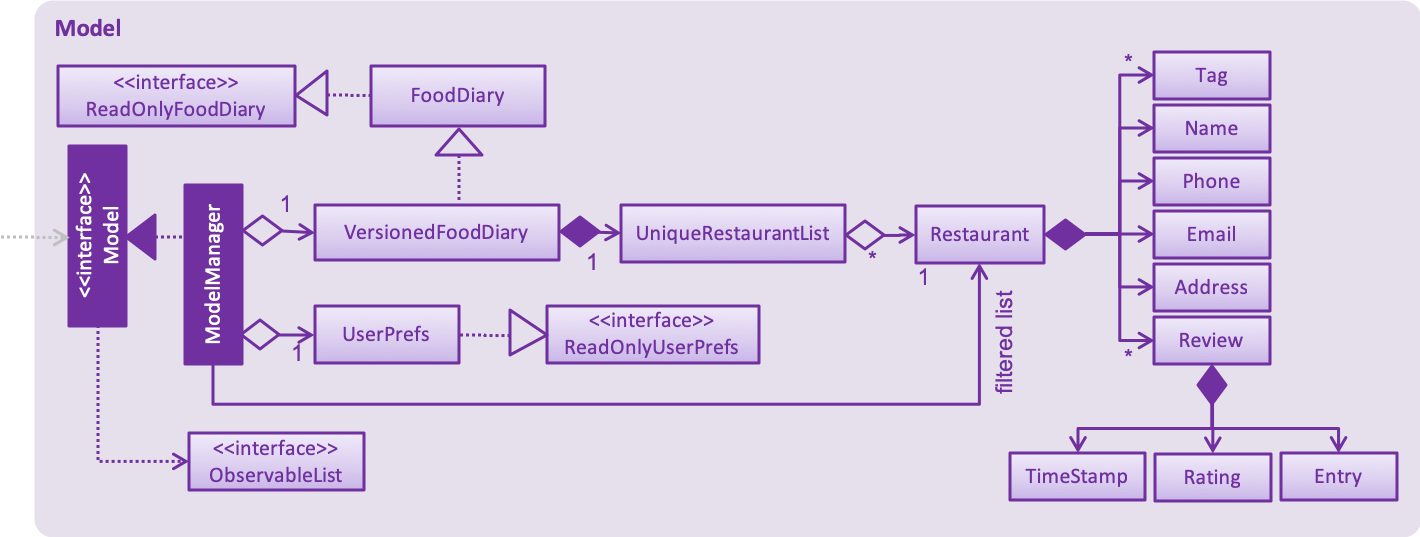
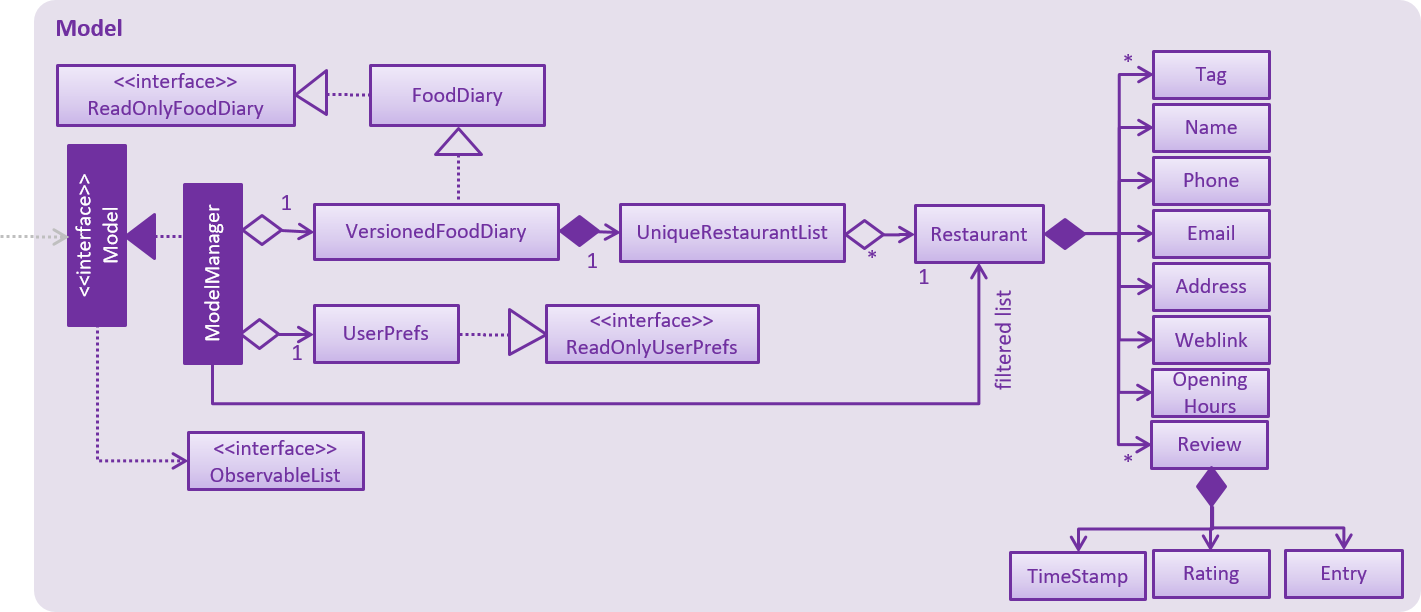
Rebuild pages at 00949ba50557b893d7e072f0d15a958df552ecd2

Changed region(s): [[0.0, 0.0298, 0.9915, 0.9832], [0.9915, 0.9832, 1.0, 1.0]]

diff --git a/DeveloperGuide.html b/DeveloperGuide.html
@@ -33,9 +33,10 @@
 <li><a href="#undo-redo-feature">3.2. Undo/Redo feature</a></li>
 <li><a href="#restaurant-categorisation">3.3. Restaurant Categorisation</a></li>
 <li><a href="#adding-a-review-to-a-selected-restaurant">3.4. Adding a Review to a selected Restaurant</a></li>
-<li><a href="#proposed-data-encryption">3.5. [Proposed] Data Encryption</a></li>
-<li><a href="#logging">3.6. Logging</a></li>
-<li><a href="#Implementation-Configuration">3.7. Configuration</a></li>
+<li><a href="#visit-webpage-feature">3.5. Visit Webpage Feature</a></li>
+<li><a href="#proposed-data-encryption">3.6. [Proposed] Data Encryption</a></li>
+<li><a href="#logging">3.7. Logging</a></li>
+<li><a href="#Implementation-Configuration">3.8. Configuration</a></li>
 </ul>
 </li>
 <li><a href="#documentation">4. Documentation</a>
@@ -938,20 +939,58 @@ Given the stable implementation of the current system of parsing commands, any n
 </div>
 </div>
 <div class="sect2">
-<h3 id="proposed-data-encryption"><a class="link" href="#proposed-data-encryption">3.5. [Proposed] Data Encryption</a></h3>
+<h3 id="visit-webpage-feature"><a class="link" href="#visit-webpage-feature">3.5. Visit Webpage Feature</a></h3>
+<div class="paragraph">
+<p>Website can be displayed on the <code>BrowserPanel</code> with <code>visitWeb</code> command.</p>
+</div>
+<div class="sect3">
+<h4 id="current-implementation-4"><a class="link" href="#current-implementation-4">3.5.1. current implementation</a></h4>
+<div class="ulist">
+<ul>
+<li>
+<p>Restaurants has a field <code>Weblink</code> which contains the URL of the restaurant website.</p>
+</li>
+<li>
+<p>Weblink have to be valid https or http link before browser can display the website.</p>
+</li>
+<li>
+<p>Upon <code>visitWeb</code> command, <code>Parser</code> in the <code>Logic</code> component will call <code>VisitWebCommandParser</code> to parse index into
+<code>VisitWebCommand</code>.</p>
+</li>
+<li>
+<p><code>Model</code> will then set Restaurant of the input index as selected Restaurant.</p>
+</li>
+<li>
+<p><code>BrowserPanel</code> of <code>UI</code> component will listen to this change in selected Restaurant and thus, display website of
+Restaurant on the <code>BrowserPanel</code>.</p>
+</li>
+</ul>
+</div>
+<div class="paragraph">
+<p>The following sequence diagram shows how the visitWeb operation works:</p>
+</div>
+<div class="imageblock">
+<div class="content">
+<img src="images/VisitWebSequenceDiagram.png" alt="VisitWebSequenceDiagram" width="800">
+</div>
+</div>
+</div>
+</div>
+<div class="sect2">
+<h3 id="proposed-data-encryption"><a class="link" href="#proposed-data-encryption">3.6. [Proposed] Data Encryption</a></h3>
 <div class="paragraph">
 <p><em>{Explain here how the data encryption feature will be implemented}</em></p>
 </div>
 </div>
 <div class="sect2">
-<h3 id="logging"><a class="link" href="#logging">3.6. Logging</a></h3>
+<h3 id="logging"><a class="link" href="#logging">3.7. Logging</a></h3>
 <div class="paragraph">
 <p>We are using <code>java.util.logging</code> package for logging. The <code>LogsCenter</code> class is used to manage the logging levels and logging destinations.</p>
 </div>
 <div class="ulist">
 <ul>
 <li>
-<p>The logging level can be controlled using the <code>logLevel</code> setting in the configuration file (See <a href="#Implementation-Configuration">Section 3.7, &#8220;Configuration&#8221;</a>)</p>
+<p>The logging level can be controlled using the <code>logLevel</code> setting in the configuration file (See <a href="#Implementation-Configuration">Section 3.8, &#8220;Configuration&#8221;</a>)</p>
 </li>
 <li>
 <p>The <code>Logger</code> for a class can be obtained using <code>LogsCenter.getLogger(Class)</code> which will log messages according to the specified logging level</p>
@@ -982,7 +1021,7 @@ Given the stable implementation of the current system of parsing commands, any n
 </div>
 </div>
 <div class="sect2">
-<h3 id="Implementation-Configuration"><a class="link" href="#Implementation-Configuration">3.7. Configuration</a></h3>
+<h3 id="Implementation-Configuration"><a class="link" href="#Implementation-Configuration">3.8. Configuration</a></h3>
 <div class="paragraph">
 <p>Certain properties of the application can be controlled (e.g user prefs file location, logging level) through the configuration file (default: <code>config.json</code>).</p>
 </div>
@@ -2426,4 +2465,4 @@ Expected: Similar to previous.</p>
 </div>
 </div>
 </div>
-</div></div><div id="footer"><div class="container"><div id="footer-text">Last updated 2019-03-19 14:57:08 UTC</div></div></div></body></html>
+</div></div><div id="footer"><div class="container"><div id="footer-text">Last updated 2019-03-19 15:48:12 UTC</div></div></div></body></html>

diff --git a/HelpWindow.html b/HelpWindow.html
@@ -27,8 +27,9 @@
 <li><a href="#filter-restaurants-based-on-category-code-filter-code">3.12. Filter restaurants based on category : <code>filter</code></a></li>
 <li><a href="#personalising-your-food-diary-with-your-name-code-name-code">3.13. Personalising your food diary with your name: <code>name</code></a></li>
 <li><a href="#view-your-profile-and-usage-statistics-code-view-code">3.14. View your profile and usage statistics : <code>view</code></a></li>
-<li><a href="#exiting-the-program-code-exit-code">3.15. Exiting the program : <code>exit</code></a></li>
-<li><a href="#saving-the-data">3.16. Saving the data</a></li>
+<li><a href="#display-website-of-selected-restaurant-code-visitweb-code">3.15. Display website of selected restaurant : <code>visitWeb</code></a></li>
+<li><a href="#exiting-the-program-code-exit-code">3.16. Exiting the program : <code>exit</code></a></li>
+<li><a href="#saving-the-data">3.17. Saving the data</a></li>
 </ul>
 </li>
 <li><a href="#faq">4. FAQ</a></li>
@@ -517,14 +518,47 @@ Format: `view'</p>
 </div>
 </div>
 <div class="sect2">
-<h3 id="exiting-the-program-code-exit-code"><a class="link" href="#exiting-the-program-code-exit-code">3.15. Exiting the program : <code>exit</code></a></h3>
+<h3 id="display-website-of-selected-restaurant-code-visitweb-code"><a class="link" href="#display-website-of-selected-restaurant-code-visitweb-code">3.15. Display website of selected restaurant : <code>visitWeb</code></a></h3>
+<div class="paragraph">
+<p>Display the website of a restaurant identified by the index number used in the listRestaurants based on its weblink.<br>
+Format: <code>visitWeb INDEX</code></p>
+</div>
+<div class="sidebarblock">
+<div class="content">
+<div class="ulist">
+<ul>
+<li>
+<p>The index refers to the index number shown in the displayed restaurants list.</p>
+</li>
+<li>
+<p>The index <strong>must be a positive integer</strong> <code>1, 2, 3, &#8230;&#8203;</code></p>
+</li>
+</ul>
+</div>
+</div>
+</div>
+<div class="paragraph">
+<p>Examples:</p>
+</div>
+<div class="ulist">
+<ul>
+<li>
+<p><code>listRestaurants</code><br>
+<code>visitWeb 1</code><br>
+Displays webpage of Restaurant at index 1 of listRestaurants.</p>
+</li>
+</ul>
+</div>
+</div>
+<div class="sect2">
+<h3 id="exiting-the-program-code-exit-code"><a class="link" href="#exiting-the-program-code-exit-code">3.16. Exiting the program : <code>exit</code></a></h3>
 <div class="paragraph">
 <p>Exits the program.<br>
 Format: <code>exit</code></p>
 </div>
 </div>
 <div class="sect2">
-<h3 id="saving-the-data"><a class="link" href="#saving-the-data">3.16. Saving the data</a></h3>
+<h3 id="saving-the-data"><a class="link" href="#saving-the-data">3.17. Saving the data</a></h3>
 <div class="paragraph">
 <p>Food diary data are saved in the hard disk automatically after any command that changes the data.<br>
 There is no need to save manually.</p>
@@ -567,4 +601,4 @@ e.g. <code>editReview 2 r/3 m/this is good</code></p>
 </ul>
 </div>
 </div>
-</div></div><div id="footer"><div class="container"><div id="footer-text">Last updated 2019-03-19 14:57:08 UTC</div></div></div></body></html>
+</div></div><div id="footer"><div class="container"><div id="footer-text">Last updated 2019-03-19 15:48:12 UTC</div></div></div></body></html>

diff --git a/UserGuide.html b/UserGuide.html
@@ -27,8 +27,9 @@
 <li><a href="#filter-restaurants-based-on-category-code-filter-code">3.12. Filter restaurants based on category : <code>filter</code></a></li>
 <li><a href="#personalising-your-food-diary-with-your-name-code-name-code">3.13. Personalising your food diary with your name: <code>name</code></a></li>
 <li><a href="#view-your-profile-and-usage-statistics-code-view-code">3.14. View your profile and usage statistics : <code>view</code></a></li>
-<li><a href="#exiting-the-program-code-exit-code">3.15. Exiting the program : <code>exit</code></a></li>
-<li><a href="#saving-the-data">3.16. Saving the data</a></li>
+<li><a href="#display-website-of-selected-restaurant-code-visitweb-code">3.15. Display website of selected restaurant : <code>visitWeb</code></a></li>
+<li><a href="#exiting-the-program-code-exit-code">3.16. Exiting the program : <code>exit</code></a></li>
+<li><a href="#saving-the-data">3.17. Saving the data</a></li>
 </ul>
 </li>
 <li><a href="#faq">4. FAQ</a></li>
@@ -517,14 +518,47 @@ Format: `view'</p>
 </div>
 </div>
 <div class="sect2">
-<h3 id="exiting-the-program-code-exit-code"><a class="link" href="#exiting-the-program-code-exit-code">3.15. Exiting the program : <code>exit</code></a></h3>
+<h3 id="display-website-of-selected-restaurant-code-visitweb-code"><a class="link" href="#display-website-of-selected-restaurant-code-visitweb-code">3.15. Display website of selected restaurant : <code>visitWeb</code></a></h3>
+<div class="paragraph">
+<p>Display the website of a restaurant identified by the index number used in the listRestaurants based on its weblink.<br>
+Format: <code>visitWeb INDEX</code></p>
+</div>
+<div class="sidebarblock">
+<div class="content">
+<div class="ulist">
+<ul>
+<li>
+<p>The index refers to the index number shown in the displayed restaurants list.</p>
+</li>
+<li>
+<p>The index <strong>must be a positive integer</strong> <code>1, 2, 3, &#8230;&#8203;</code></p>
+</li>
+</ul>
+</div>
+</div>
+</div>
+<div class="paragraph">
+<p>Examples:</p>
+</div>
+<div class="ulist">
+<ul>
+<li>
+<p><code>listRestaurants</code><br>
+<code>visitWeb 1</code><br>
+Displays webpage of Restaurant at index 1 of listRestaurants.</p>
+</li>
+</ul>
+</div>
+</div>
+<div class="sect2">
+<h3 id="exiting-the-program-code-exit-code"><a class="link" href="#exiting-the-program-code-exit-code">3.16. Exiting the program : <code>exit</code></a></h3>
 <div class="paragraph">
 <p>Exits the program.<br>
 Format: <code>exit</code></p>
 </div>
 </div>
 <div class="sect2">
-<h3 id="saving-the-data"><a class="link" href="#saving-the-data">3.16. Saving the data</a></h3>
+<h3 id="saving-the-data"><a class="link" href="#saving-the-data">3.17. Saving the data</a></h3>
 <div class="paragraph">
 <p>Food diary data are saved in the hard disk automatically after any command that changes the data.<br>
 There is no need to save manually.</p>
@@ -567,4 +601,4 @@ e.g. <code>editReview 2 r/3 m/this is good</code></p>
 </ul>
 </div>
 </div>
-</div></div><div id="footer"><div class="container"><div id="footer-text">Last updated 2019-03-19 14:57:08 UTC</div></div></div></body></html>
+</div></div><div id="footer"><div class="container"><div id="footer-text">Last updated 2019-03-19 15:48:12 UTC</div></div></div></body></html>

diff --git a/team/johndoe.html b/team/johndoe.html
@@ -369,4 +369,4 @@ If the <code>currentStatePointer</code> is at index <code>addressBookStateList.s
 <p><em>{Optionally, you may include other projects in your portfolio.}</em></p>
 </div>
 </div>
-</div></div><div id="footer"><div class="container"><div id="footer-text">Last updated 2019-03-19 14:57:08 UTC</div></div></div></body></html>
+</div></div><div id="footer"><div class="container"><div id="footer-text">Last updated 2019-03-19 15:48:12 UTC</div></div></div></body></html>

diff --git a/ContactUs.html b/ContactUs.html
@@ -12,4 +12,4 @@
 <p><strong>Email us</strong> : You can also reach us at <code>weikanglee@u.nus.edu</code></p>
 </li>
 </ul>
-</div></div><div id="footer"><div class="container"><div id="footer-text">Last updated 2019-03-19 14:57:08 UTC</div></div></div></body></html>
+</div></div><div id="footer"><div class="container"><div id="footer-text">Last updated 2019-03-19 15:48:12 UTC</div></div></div></body></html>

diff --git a/LearningOutcomes.html b/LearningOutcomes.html
@@ -549,4 +549,4 @@ When the value represented by the <code>ObservableValue</code> changes, it will 
 </div>
 </div>
 </div>
-</div></div><div id="footer"><div class="container"><div id="footer-text">Last updated 2019-03-19 14:57:08 UTC</div></div></div></body></html>
+</div></div><div id="footer"><div class="container"><div id="footer-text">Last updated 2019-03-19 15:48:12 UTC</div></div></div></body></html>

diff --git a/UsingGradle.html b/UsingGradle.html
@@ -255,4 +255,4 @@ See <code>build.gradle</code> &#8594; <code>allprojects</code> &#8594; <code>dep
 </ul>
 </div>
 </div>
-</div></div><div id="footer"><div class="container"><div id="footer-text">Last updated 2019-03-19 14:57:08 UTC</div></div></div></body></html>
+</div></div><div id="footer"><div class="container"><div id="footer-text">Last updated 2019-03-19 15:48:12 UTC</div></div></div></body></html>

diff --git a/UsingNetlify.html b/UsingNetlify.html
@@ -123,4 +123,4 @@ The publish directory is the directory in which the built HTML documentation res
 </ol>
 </div>
 </div>
-</div></div><div id="footer"><div class="container"><div id="footer-text">Last updated 2019-03-19 14:57:08 UTC</div></div></div></body></html>
+</div></div><div id="footer"><div class="container"><div id="footer-text">Last updated 2019-03-19 15:48:12 UTC</div></div></div></body></html>

diff --git a/UsingCoveralls.html b/UsingCoveralls.html
@@ -96,4 +96,4 @@ If you have not set up Travis CI, see <a href="UsingTravis.html">UsingTravis.ado
 </ol>
 </div>
 </div>
-</div></div><div id="footer"><div class="container"><div id="footer-text">Last updated 2019-03-19 14:57:08 UTC</div></div></div></body></html>
+</div></div><div id="footer"><div class="container"><div id="footer-text">Last updated 2019-03-19 15:48:12 UTC</div></div></div></body></html>

diff --git a/UsingTravis.html b/UsingTravis.html
@@ -277,4 +277,4 @@ Suggested change: Remove the codacy badge from <code>README</code>.</p>
 </div>
 </div>
 </div>
-</div></div><div id="footer"><div class="container"><div id="footer-text">Last updated 2019-03-19 14:57:08 UTC</div></div></div></body></html>
+</div></div><div id="footer"><div class="container"><div id="footer-text">Last updated 2019-03-19 15:48:12 UTC</div></div></div></body></html>

diff --git a/UsingCheckstyle.html b/UsingCheckstyle.html
@@ -91,4 +91,4 @@ Restart the IDE to complete the installation.</p>
 </ul>
 </div>
 </div>
-</div></div><div id="footer"><div class="container"><div id="footer-text">Last updated 2019-03-19 14:57:08 UTC</div></div></div></body></html>
+</div></div><div id="footer"><div class="container"><div id="footer-text">Last updated 2019-03-19 15:48:12 UTC</div></div></div></body></html>

diff --git a/AboutUs.html b/AboutUs.html
@@ -90,4 +90,4 @@ Responsibilities: Commons, code quality</p>
 </div>
 </div>
 </div>
-</div></div><div id="footer"><div class="container"><div id="footer-text">Last updated 2019-03-19 14:57:08 UTC</div></div></div></body></html>
+</div></div><div id="footer"><div class="container"><div id="footer-text">Last updated 2019-03-19 15:48:12 UTC</div></div></div></body></html>
